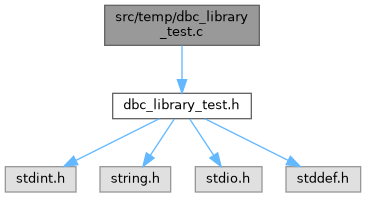
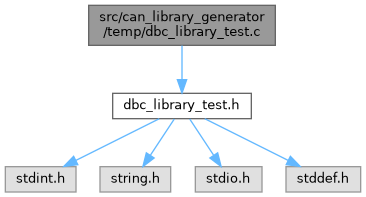
Documentation files 2025-07-14

Changed region(s): [[0.2404, 0.0, 0.7514, 0.2437]]

diff --git a/docs/html/dir_65c7e3d1771615113caea2ae413a2fb7.html b/docs/html/dir_65c7e3d1771615113caea2ae413a2fb7.html
@@ -5,7 +5,7 @@
 <meta http-equiv="X-UA-Compatible" content="IE=11"/>
 <meta name="generator" content="Doxygen 1.9.8"/>
 <meta name="viewport" content="width=device-width, initial-scale=1"/>
-<title>CAN Library Documentation: File List</title>
+<title>CAN Library Documentation: src/can_library_generator Directory Reference</title>
 <link href="tabs.css" rel="stylesheet" type="text/css"/>
 <script type="text/javascript" src="jquery.js"></script>
 <script type="text/javascript" src="dynsections.js"></script>
@@ -46,7 +46,6 @@ $(function() {
 /* @license-end */
 </script>
 <div id="main-nav"></div>
-</div><!-- top -->
 <!-- window showing the filter options -->
 <div id="MSearchSelectWindow"
      onmouseover="return searchBox.OnSearchSelectShow()"
@@ -68,19 +67,31 @@ $(function() {
 </div>
 </div>
 
+<div id="nav-path" class="navpath">
+  <ul>
+<li class="navelem"><a class="el" href="dir_68267d1309a1af8e8297ef4c3efbcdba.html">src</a></li><li class="navelem"><a class="el" href="dir_65c7e3d1771615113caea2ae413a2fb7.html">can_library_generator</a></li>  </ul>
+</div>
+</div><!-- top -->
 <div class="header">
-  <div class="headertitle"><div class="title">File List</div></div>
+  <div class="headertitle"><div class="title">can_library_generator Directory Reference</div></div>
 </div><!--header-->
 <div class="contents">
-<div class="textblock">Here is a list of all documented files with brief descriptions:</div><div class="directory">
-<div class="levels">[detail level <span onclick="javascript:toggleLevel(1);">1</span><span onclick="javascript:toggleLevel(2);">2</span><span onclick="javascript:toggleLevel(3);">3</span><span onclick="javascript:toggleLevel(4);">4</span>]</div><table class="directory">
-<tr id="row_0_" class="even"><td class="entry"><span style="width:0px;display:inline-block;">&#160;</span><span id="arr_0_" class="arrow" onclick="toggleFolder('0_')">&#9660;</span><span id="img_0_" class="iconfopen" onclick="toggleFolder('0_')">&#160;</span><a class="el" href="dir_68267d1309a1af8e8297ef4c3efbcdba.html" target="_self">src</a></td><td class="desc"></td></tr>
-<tr id="row_0_0_" class="odd"><td class="entry"><span style="width:16px;display:inline-block;">&#160;</span><span id="arr_0_0_" class="arrow" onclick="toggleFolder('0_0_')">&#9660;</span><span id="img_0_0_" class="iconfopen" onclick="toggleFolder('0_0_')">&#160;</span><a class="el" href="dir_65c7e3d1771615113caea2ae413a2fb7.html" target="_self">can_library_generator</a></td><td class="desc"></td></tr>
-<tr id="row_0_0_0_" class="even"><td class="entry"><span style="width:32px;display:inline-block;">&#160;</span><span id="arr_0_0_0_" class="arrow" onclick="toggleFolder('0_0_0_')">&#9660;</span><span id="img_0_0_0_" class="iconfopen" onclick="toggleFolder('0_0_0_')">&#160;</span><a class="el" href="dir_5a067c7e8ec1ea5fa715099846176062.html" target="_self">temp</a></td><td class="desc"></td></tr>
-<tr id="row_0_0_0_0_" class="odd"><td class="entry"><span style="width:64px;display:inline-block;">&#160;</span><span class="icondoc"></span><a class="el" href="dbc__library__test_8c.html" target="_self">dbc_library_test.c</a></td><td class="desc">Defines the core structures and functions for CAN communication </td></tr>
-<tr id="row_0_0_0_1_" class="even"><td class="entry"><span style="width:64px;display:inline-block;">&#160;</span><a href="dbc__library__test_8h_source.html"><span class="icondoc"></span></a><a class="el" href="dbc__library__test_8h.html" target="_self">dbc_library_test.h</a></td><td class="desc">Defines the core structures and functions for CAN communication </td></tr>
+<div class="dynheader">
+Directory dependency graph for can_library_generator:</div>
+<div class="dyncontent">
+<div class="center"><img src="dir_65c7e3d1771615113caea2ae413a2fb7_dep.png" border="0" usemap="#adir__65c7e3d1771615113caea2ae413a2fb7__dep" alt="src/can_library_generator"/></div>
+<map name="adir__65c7e3d1771615113caea2ae413a2fb7__dep" id="adir__65c7e3d1771615113caea2ae413a2fb7__dep">
+<area shape="rect" href="dir_5a067c7e8ec1ea5fa715099846176062.html" title="temp" alt="" coords="37,63,93,88"/>
+<area shape="rect" href="dir_65c7e3d1771615113caea2ae413a2fb7.html" alt="" coords="27,52,293,99"/>
+<area shape="rect" href="dir_68267d1309a1af8e8297ef4c3efbcdba.html" title="src" alt="" coords="16,16,304,109"/>
+</map>
+</div>
+<table class="memberdecls">
+<tr class="heading"><td colspan="2"><h2 class="groupheader"><a id="subdirs" name="subdirs"></a>
+Directories</h2></td></tr>
+<tr class="memitem:"><td class="memItemLeft" align="right" valign="top"><span class="iconfclosed"></span>&#160;</td><td class="memItemRight" valign="bottom"><a class="el" href="dir_5a067c7e8ec1ea5fa715099846176062.html">temp</a></td></tr>
+<tr class="separator:"><td class="memSeparator" colspan="2">&#160;</td></tr>
 </table>
-</div><!-- directory -->
 </div><!-- contents -->
 <!-- start footer part -->
 <hr class="footer"/><address class="footer"><small>

diff --git a/docs/html/dbc__library__test_8h.html b/docs/html/dbc__library__test_8h.html
@@ -5,7 +5,7 @@
 <meta http-equiv="X-UA-Compatible" content="IE=11"/>
 <meta name="generator" content="Doxygen 1.9.8"/>
 <meta name="viewport" content="width=device-width, initial-scale=1"/>
-<title>CAN Library Documentation: src/temp/dbc_library_test.h File Reference</title>
+<title>CAN Library Documentation: src/can_library_generator/temp/dbc_library_test.h File Reference</title>
 <link href="tabs.css" rel="stylesheet" type="text/css"/>
 <script type="text/javascript" src="jquery.js"></script>
 <script type="text/javascript" src="dynsections.js"></script>
@@ -69,7 +69,7 @@ $(function() {
 
 <div id="nav-path" class="navpath">
   <ul>
-<li class="navelem"><a class="el" href="dir_68267d1309a1af8e8297ef4c3efbcdba.html">src</a></li><li class="navelem"><a class="el" href="dir_f00a88bf98fc5f31d0a22915697932fb.html">temp</a></li>  </ul>
+<li class="navelem"><a class="el" href="dir_68267d1309a1af8e8297ef4c3efbcdba.html">src</a></li><li class="navelem"><a class="el" href="dir_65c7e3d1771615113caea2ae413a2fb7.html">can_library_generator</a></li><li class="navelem"><a class="el" href="dir_5a067c7e8ec1ea5fa715099846176062.html">temp</a></li>  </ul>
 </div>
 </div><!-- top -->
 <div class="header">
@@ -89,9 +89,9 @@ $(function() {
 </div><div class="textblock"><div class="dynheader">
 Include dependency graph for dbc_library_test.h:</div>
 <div class="dyncontent">
-<div class="center"><img src="dbc__library__test_8h__incl.png" border="0" usemap="#asrc_2temp_2dbc__library__test_8h" alt=""/></div>
-<map name="asrc_2temp_2dbc__library__test_8h" id="asrc_2temp_2dbc__library__test_8h">
-<area shape="rect" title="Defines the core structures and functions for CAN communication." alt="" coords="105,5,259,45"/>
+<div class="center"><img src="dbc__library__test_8h__incl.png" border="0" usemap="#asrc_2can__library__generator_2temp_2dbc__library__test_8h" alt=""/></div>
+<map name="asrc_2can__library__generator_2temp_2dbc__library__test_8h" id="asrc_2can__library__generator_2temp_2dbc__library__test_8h">
+<area shape="rect" title="Defines the core structures and functions for CAN communication." alt="" coords="89,5,275,45"/>
 <area shape="rect" title=" " alt="" coords="5,93,76,119"/>
 <area shape="poly" title=" " alt="" coords="149,48,75,89,73,84,147,43"/>
 <area shape="rect" title=" " alt="" coords="100,93,171,119"/>
@@ -105,11 +105,11 @@ Include dependency graph for dbc_library_test.h:</div>
 </div><div class="textblock"><div class="dynheader">
 This graph shows which files directly or indirectly include this file:</div>
 <div class="dyncontent">
-<div class="center"><img src="dbc__library__test_8h__dep__incl.png" border="0" usemap="#asrc_2temp_2dbc__library__test_8hdep" alt=""/></div>
-<map name="asrc_2temp_2dbc__library__test_8hdep" id="asrc_2temp_2dbc__library__test_8hdep">
-<area shape="rect" title="Defines the core structures and functions for CAN communication." alt="" coords="5,5,160,45"/>
-<area shape="rect" href="dbc__library__test_8c.html" title="Defines the core structures and functions for CAN communication." alt="" coords="5,93,160,133"/>
-<area shape="poly" title=" " alt="" coords="85,59,85,93,80,93,80,59"/>
+<div class="center"><img src="dbc__library__test_8h__dep__incl.png" border="0" usemap="#asrc_2can__library__generator_2temp_2dbc__library__test_8hdep" alt=""/></div>
+<map name="asrc_2can__library__generator_2temp_2dbc__library__test_8hdep" id="asrc_2can__library__generator_2temp_2dbc__library__test_8hdep">
+<area shape="rect" title="Defines the core structures and functions for CAN communication." alt="" coords="5,5,192,45"/>
+<area shape="rect" href="dbc__library__test_8c.html" title="Defines the core structures and functions for CAN communication." alt="" coords="5,93,192,133"/>
+<area shape="poly" title=" " alt="" coords="101,59,101,93,96,93,96,59"/>
 </map>
 </div>
 </div>

diff --git a/docs/html/dbc__library__test_8h_source.html b/docs/html/dbc__library__test_8h_source.html
@@ -5,7 +5,7 @@
 <meta http-equiv="X-UA-Compatible" content="IE=11"/>
 <meta name="generator" content="Doxygen 1.9.8"/>
 <meta name="viewport" content="width=device-width, initial-scale=1"/>
-<title>CAN Library Documentation: src/temp/dbc_library_test.h Source File</title>
+<title>CAN Library Documentation: src/can_library_generator/temp/dbc_library_test.h Source File</title>
 <link href="tabs.css" rel="stylesheet" type="text/css"/>
 <script type="text/javascript" src="jquery.js"></script>
 <script type="text/javascript" src="dynsections.js"></script>
@@ -74,7 +74,7 @@ $(document).ready(function() { init_codefold(0); });
 
 <div id="nav-path" class="navpath">
   <ul>
-<li class="navelem"><a class="el" href="dir_68267d1309a1af8e8297ef4c3efbcdba.html">src</a></li><li class="navelem"><a class="el" href="dir_f00a88bf98fc5f31d0a22915697932fb.html">temp</a></li>  </ul>
+<li class="navelem"><a class="el" href="dir_68267d1309a1af8e8297ef4c3efbcdba.html">src</a></li><li class="navelem"><a class="el" href="dir_65c7e3d1771615113caea2ae413a2fb7.html">can_library_generator</a></li><li class="navelem"><a class="el" href="dir_5a067c7e8ec1ea5fa715099846176062.html">temp</a></li>  </ul>
 </div>
 </div><!-- top -->
 <div class="header">
@@ -86,7 +86,7 @@ $(document).ready(function() { init_codefold(0); });
 <div class="line"><a id="l00003" name="l00003"></a><span class="lineno">    3</span><span class="comment">* @file         dbc_library_test.h</span></div>
 <div class="line"><a id="l00004" name="l00004"></a><span class="lineno">    4</span><span class="comment">* @brief        Definitions of structures and functions for CAN communication</span></div>
 <div class="line"><a id="l00005" name="l00005"></a><span class="lineno">    5</span><span class="comment">* @author       Generated using CAN Library Generator tool</span></div>
-<div class="line"><a id="l00006" name="l00006"></a><span class="lineno">    6</span><span class="comment">* @date         10.07.2025</span></div>
+<div class="line"><a id="l00006" name="l00006"></a><span class="lineno">    6</span><span class="comment">* @date         14.07.2025</span></div>
 <div class="line"><a id="l00007" name="l00007"></a><span class="lineno">    7</span><span class="comment">*</span></div>
 <div class="line"><a id="l00008" name="l00008"></a><span class="lineno">    8</span><span class="comment">* @copyright    (c) 2025 Mobility Lab, VŠB - Technical University of Ostrava</span></div>
 <div class="line"><a id="l00009" name="l00009"></a><span class="lineno">    9</span><span class="comment">* All rights reserved.</span></div>

diff --git a/docs/html/dbc__library__test_8c.html b/docs/html/dbc__library__test_8c.html
@@ -5,7 +5,7 @@
 <meta http-equiv="X-UA-Compatible" content="IE=11"/>
 <meta name="generator" content="Doxygen 1.9.8"/>
 <meta name="viewport" content="width=device-width, initial-scale=1"/>
-<title>CAN Library Documentation: src/temp/dbc_library_test.c File Reference</title>
+<title>CAN Library Documentation: src/can_library_generator/temp/dbc_library_test.c File Reference</title>
 <link href="tabs.css" rel="stylesheet" type="text/css"/>
 <script type="text/javascript" src="jquery.js"></script>
 <script type="text/javascript" src="dynsections.js"></script>
@@ -69,7 +69,7 @@ $(function() {
 
 <div id="nav-path" class="navpath">
   <ul>
-<li class="navelem"><a class="el" href="dir_68267d1309a1af8e8297ef4c3efbcdba.html">src</a></li><li class="navelem"><a class="el" href="dir_f00a88bf98fc5f31d0a22915697932fb.html">temp</a></li>  </ul>
+<li class="navelem"><a class="el" href="dir_68267d1309a1af8e8297ef4c3efbcdba.html">src</a></li><li class="navelem"><a class="el" href="dir_65c7e3d1771615113caea2ae413a2fb7.html">can_library_generator</a></li><li class="navelem"><a class="el" href="dir_5a067c7e8ec1ea5fa715099846176062.html">temp</a></li>  </ul>
 </div>
 </div><!-- top -->
 <div class="header">
@@ -85,9 +85,9 @@ $(function() {
 </div><div class="textblock"><div class="dynheader">
 Include dependency graph for dbc_library_test.c:</div>
 <div class="dyncontent">
-<div class="center"><img src="dbc__library__test_8c__incl.png" border="0" usemap="#asrc_2temp_2dbc__library__test_8c" alt=""/></div>
-<map name="asrc_2temp_2dbc__library__test_8c" id="asrc_2temp_2dbc__library__test_8c">
-<area shape="rect" title="Defines the core structures and functions for CAN communication." alt="" coords="105,5,259,45"/>
+<div class="center"><img src="dbc__library__test_8c__incl.png" border="0" usemap="#asrc_2can__library__generator_2temp_2dbc__library__test_8c" alt=""/></div>
+<map name="asrc_2can__library__generator_2temp_2dbc__library__test_8c" id="asrc_2can__library__generator_2temp_2dbc__library__test_8c">
+<area shape="rect" title="Defines the core structures and functions for CAN communication." alt="" coords="89,5,275,45"/>
 <area shape="rect" href="dbc__library__test_8h.html" title="Defines the core structures and functions for CAN communication." alt="" coords="113,93,251,119"/>
 <area shape="poly" title=" " alt="" coords="185,46,185,79,179,79,179,46"/>
 <area shape="rect" title=" " alt="" coords="5,167,76,192"/>

diff --git a/docs/html/dir_5a067c7e8ec1ea5fa715099846176062.html b/docs/html/dir_5a067c7e8ec1ea5fa715099846176062.html
@@ -5,7 +5,7 @@
 <meta http-equiv="X-UA-Compatible" content="IE=11"/>
 <meta name="generator" content="Doxygen 1.9.8"/>
 <meta name="viewport" content="width=device-width, initial-scale=1"/>
-<title>CAN Library Documentation: src/temp Directory Reference</title>
+<title>CAN Library Documentation: src/can_library_generator/temp Directory Reference</title>
 <link href="tabs.css" rel="stylesheet" type="text/css"/>
 <script type="text/javascript" src="jquery.js"></script>
 <script type="text/javascript" src="dynsections.js"></script>
@@ -69,7 +69,7 @@ $(function() {
 
 <div id="nav-path" class="navpath">
   <ul>
-<li class="navelem"><a class="el" href="dir_68267d1309a1af8e8297ef4c3efbcdba.html">src</a></li><li class="navelem"><a class="el" href="dir_f00a88bf98fc5f31d0a22915697932fb.html">temp</a></li>  </ul>
+<li class="navelem"><a class="el" href="dir_68267d1309a1af8e8297ef4c3efbcdba.html">src</a></li><li class="navelem"><a class="el" href="dir_65c7e3d1771615113caea2ae413a2fb7.html">can_library_generator</a></li><li class="navelem"><a class="el" href="dir_5a067c7e8ec1ea5fa715099846176062.html">temp</a></li>  </ul>
 </div>
 </div><!-- top -->
 <div class="header">
@@ -79,10 +79,10 @@ $(function() {
 <div class="dynheader">
 Directory dependency graph for temp:</div>
 <div class="dyncontent">
-<div class="center"><img src="dir_f00a88bf98fc5f31d0a22915697932fb_dep.png" border="0" usemap="#adir__f00a88bf98fc5f31d0a22915697932fb__dep" alt="src/temp"/></div>
-<map name="adir__f00a88bf98fc5f31d0a22915697932fb__dep" id="adir__f00a88bf98fc5f31d0a22915697932fb__dep">
-<area shape="rect" href="dir_f00a88bf98fc5f31d0a22915697932fb.html" title="temp" alt="" coords="27,52,83,77"/>
-<area shape="rect" href="dir_68267d1309a1af8e8297ef4c3efbcdba.html" title="src" alt="" coords="16,16,93,88"/>
+<div class="center"><img src="dir_5a067c7e8ec1ea5fa715099846176062_dep.png" border="0" usemap="#adir__5a067c7e8ec1ea5fa715099846176062__dep" alt="src/can_library_generator/temp"/></div>
+<map name="adir__5a067c7e8ec1ea5fa715099846176062__dep" id="adir__5a067c7e8ec1ea5fa715099846176062__dep">
+<area shape="rect" href="dir_5a067c7e8ec1ea5fa715099846176062.html" title="temp" alt="" coords="69,52,125,77"/>
+<area shape="rect" href="dir_65c7e3d1771615113caea2ae413a2fb7.html" title="can_library_generator" alt="" coords="16,16,180,88"/>
 </map>
 </div>
 <table class="memberdecls">

diff --git a/docs/html/dir_68267d1309a1af8e8297ef4c3efbcdba.html b/docs/html/dir_68267d1309a1af8e8297ef4c3efbcdba.html
@@ -76,12 +76,6 @@ $(function() {
   <div class="headertitle"><div class="title">src Directory Reference</div></div>
 </div><!--header-->
 <div class="contents">
-<table class="memberdecls">
-<tr class="heading"><td colspan="2"><h2 class="groupheader"><a id="subdirs" name="subdirs"></a>
-Directories</h2></td></tr>
-<tr class="memitem:"><td class="memItemLeft" align="right" valign="top"><span class="iconfclosed"></span>&#160;</td><td class="memItemRight" valign="bottom"><a class="el" href="dir_f00a88bf98fc5f31d0a22915697932fb.html">temp</a></td></tr>
-<tr class="separator:"><td class="memSeparator" colspan="2">&#160;</td></tr>
-</table>
 </div><!-- contents -->
 <!-- start footer part -->
 <hr class="footer"/><address class="footer"><small>

diff --git a/docs/html/structDBCMessageBase.html b/docs/html/structDBCMessageBase.html
@@ -200,7 +200,7 @@ Public Attributes</h2></td></tr>
 </div>
 </div>
 <hr/>The documentation for this struct was generated from the following file:<ul>
-<li>src/temp/<a class="el" href="dbc__library__test_8h_source.html">dbc_library_test.h</a></li>
+<li>src/can_library_generator/temp/<a class="el" href="dbc__library__test_8h_source.html">dbc_library_test.h</a></li>
 </ul>
 </div><!-- contents -->
 <!-- start footer part -->

diff --git a/docs/html/structDBCSignal.html b/docs/html/structDBCSignal.html
@@ -309,7 +309,7 @@ Public Attributes</h2></td></tr>
 </div>
 </div>
 <hr/>The documentation for this struct was generated from the following file:<ul>
-<li>src/temp/<a class="el" href="dbc__library__test_8h_source.html">dbc_library_test.h</a></li>
+<li>src/can_library_generator/temp/<a class="el" href="dbc__library__test_8h_source.html">dbc_library_test.h</a></li>
 </ul>
 </div><!-- contents -->
 <!-- start footer part -->

diff --git a/docs/latex/dbc__library__test_8h_source.tex b/docs/latex/dbc__library__test_8h_source.tex
@@ -1,5 +1,5 @@
 \doxysubsection{dbc\+\_\+library\+\_\+test.\+h}
-\hypertarget{dbc__library__test_8h_source}{}\label{dbc__library__test_8h_source}\index{src/temp/dbc\_library\_test.h@{src/temp/dbc\_library\_test.h}}
+\hypertarget{dbc__library__test_8h_source}{}\label{dbc__library__test_8h_source}\index{src/can\_library\_generator/temp/dbc\_library\_test.h@{src/can\_library\_generator/temp/dbc\_library\_test.h}}
 \mbox{\hyperlink{dbc__library__test_8h}{Go to the documentation of this file.}}
 \begin{DoxyCode}{0}
 \DoxyCodeLine{00001\ \textcolor{comment}{/*******************************************************************************}}
@@ -7,7 +7,7 @@
 \DoxyCodeLine{00003\ \textcolor{comment}{*\ @file\ \ \ \ \ \ \ \ \ dbc\_library\_test.h}}
 \DoxyCodeLine{00004\ \textcolor{comment}{*\ @brief\ \ \ \ \ \ \ \ Definitions\ of\ structures\ and\ functions\ for\ CAN\ communication}}
 \DoxyCodeLine{00005\ \textcolor{comment}{*\ @author\ \ \ \ \ \ \ Generated\ using\ CAN\ Library\ Generator\ tool}}
-\DoxyCodeLine{00006\ \textcolor{comment}{*\ @date\ \ \ \ \ \ \ \ \ 10.07.2025}}
+\DoxyCodeLine{00006\ \textcolor{comment}{*\ @date\ \ \ \ \ \ \ \ \ 14.07.2025}}
 \DoxyCodeLine{00007\ \textcolor{comment}{*}}
 \DoxyCodeLine{00008\ \textcolor{comment}{*\ @copyright\ \ \ \ (c)\ 2025\ Mobility\ Lab,\ VŠB\ -\/\ Technical\ University\ of\ Ostrava}}
 \DoxyCodeLine{00009\ \textcolor{comment}{*\ All\ rights\ reserved.}}

diff --git a/docs/latex/files.tex b/docs/latex/files.tex
@@ -1,5 +1,5 @@
 \doxysubsection{File List}
 Here is a list of all documented files with brief descriptions\+:\begin{DoxyCompactList}
-\item\contentsline{section}{src/temp/\mbox{\hyperlink{dbc__library__test_8c}{dbc\+\_\+library\+\_\+test.\+c}} \\*Defines the core structures and functions for CAN communication }{\pageref{dbc__library__test_8c}}{}
-\item\contentsline{section}{src/temp/\mbox{\hyperlink{dbc__library__test_8h}{dbc\+\_\+library\+\_\+test.\+h}} \\*Defines the core structures and functions for CAN communication }{\pageref{dbc__library__test_8h}}{}
+\item\contentsline{section}{src/can\+\_\+library\+\_\+generator/temp/\mbox{\hyperlink{dbc__library__test_8c}{dbc\+\_\+library\+\_\+test.\+c}} \\*Defines the core structures and functions for CAN communication }{\pageref{dbc__library__test_8c}}{}
+\item\contentsline{section}{src/can\+\_\+library\+\_\+generator/temp/\mbox{\hyperlink{dbc__library__test_8h}{dbc\+\_\+library\+\_\+test.\+h}} \\*Defines the core structures and functions for CAN communication }{\pageref{dbc__library__test_8h}}{}
 \end{DoxyCompactList}

diff --git a/docs/latex/dbc__library__test_8h.tex b/docs/latex/dbc__library__test_8h.tex
@@ -1,5 +1,5 @@
-\doxysubsection{src/temp/dbc\+\_\+library\+\_\+test.h File Reference}
-\hypertarget{dbc__library__test_8h}{}\label{dbc__library__test_8h}\index{src/temp/dbc\_library\_test.h@{src/temp/dbc\_library\_test.h}}
+\doxysubsection{src/can\+\_\+library\+\_\+generator/temp/dbc\+\_\+library\+\_\+test.h File Reference}
+\hypertarget{dbc__library__test_8h}{}\label{dbc__library__test_8h}\index{src/can\_library\_generator/temp/dbc\_library\_test.h@{src/can\_library\_generator/temp/dbc\_library\_test.h}}
 
 
 Defines the core structures and functions for CAN communication.  
@@ -22,7 +22,7 @@ This graph shows which files directly or indirectly include this file\+:
 \begin{figure}[H]
 \begin{center}
 \leavevmode
-\includegraphics[width=196pt]{dbc__library__test_8h__dep__incl}
+\includegraphics[width=220pt]{dbc__library__test_8h__dep__incl}
 \end{center}
 \end{figure}
 \doxysubsubsubsection*{Classes}

diff --git a/docs/latex/dbc__library__test_8c.tex b/docs/latex/dbc__library__test_8c.tex
@@ -1,5 +1,5 @@
-\doxysubsection{src/temp/dbc\+\_\+library\+\_\+test.c File Reference}
-\hypertarget{dbc__library__test_8c}{}\label{dbc__library__test_8c}\index{src/temp/dbc\_library\_test.c@{src/temp/dbc\_library\_test.c}}
+\doxysubsection{src/can\+\_\+library\+\_\+generator/temp/dbc\+\_\+library\+\_\+test.c File Reference}
+\hypertarget{dbc__library__test_8c}{}\label{dbc__library__test_8c}\index{src/can\_library\_generator/temp/dbc\_library\_test.c@{src/can\_library\_generator/temp/dbc\_library\_test.c}}
 
 
 Defines the core structures and functions for CAN communication.  
